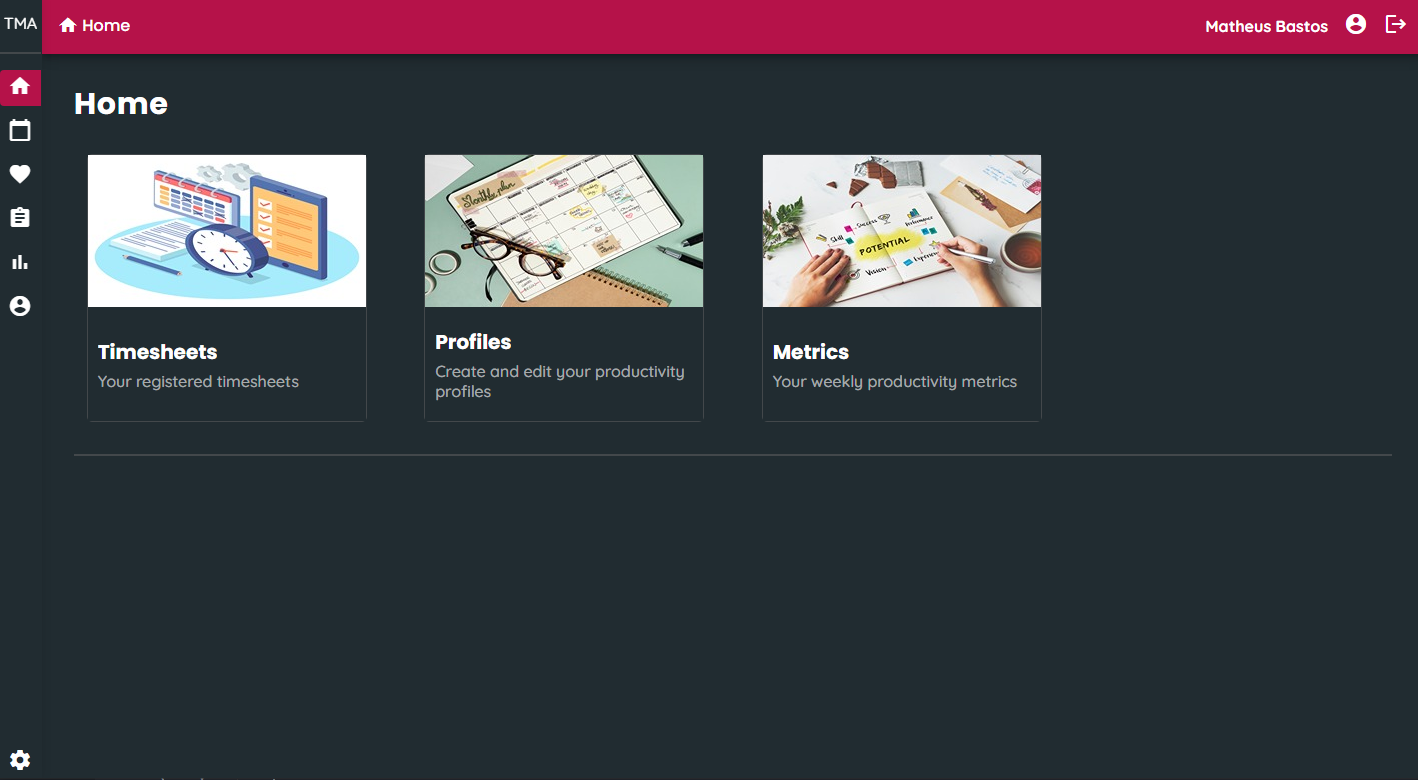
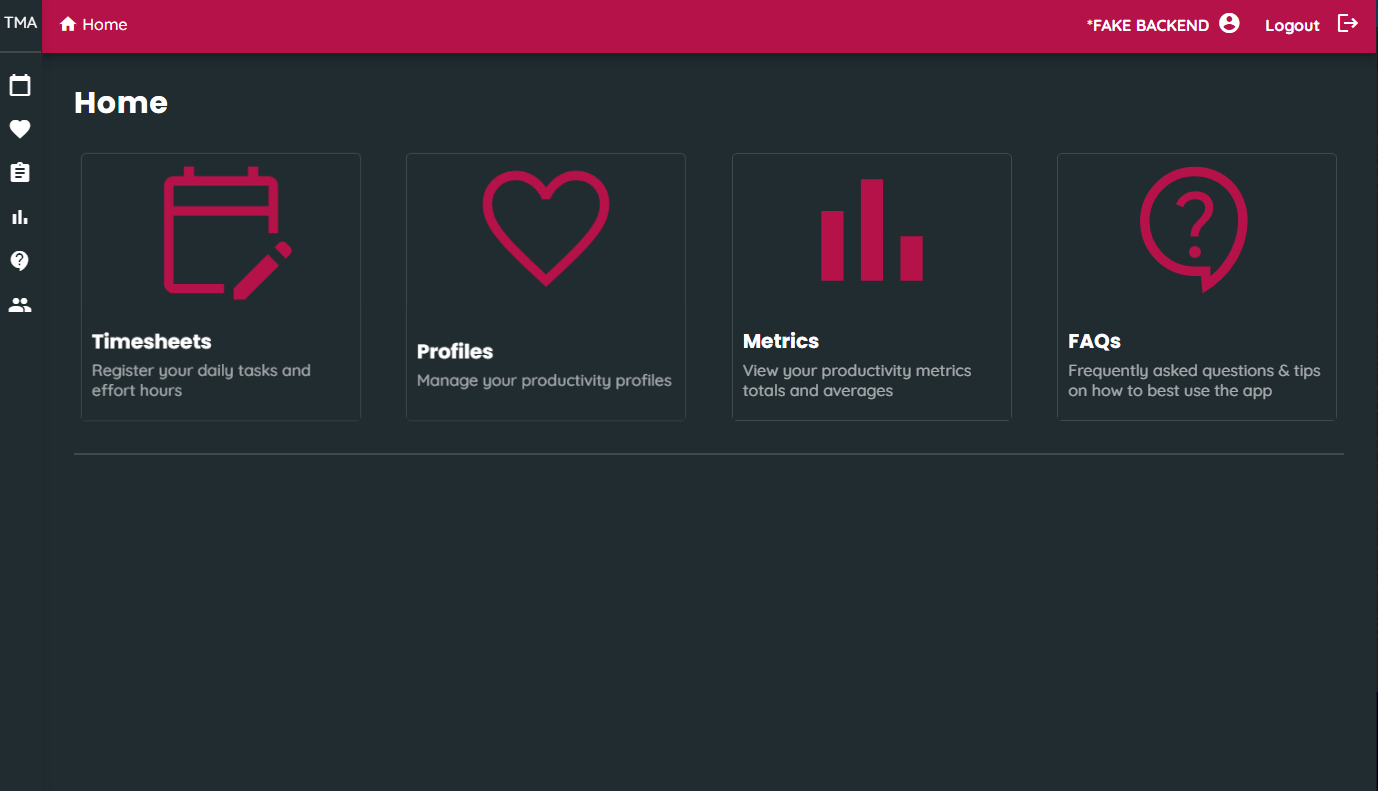
adding pt-BR README and updating images

diff --git a/README.pt-BR.md b/README.pt-BR.md
@@ -1,0 +1,45 @@
+# Task Manager App
+
+Aplicação web Fullstack para gerenciar tarefas e medir métricas de produtividade.
+
+O aplicativo possui uma versão de demonstração sem integração de back-end, hospedada no Vercel. Você pode acessá-la [aqui](https://task-manager-app-fake-backend.vercel.app/home/).
+
+## Repositórios
+
+- TMA API - .NET
+- TMA SPA - Angular
+
+## Principais Recursos
+
+- CRUD para tarefas, perfis e quadros de horários;
+- Sistema de autenticação sólido utilizando JWT;
+- Layout responsivo para todos os dispositivos e design seguindo as melhores práticas de UX;
+- Criação de perfis de produtividade com flexibilidade de agendamento, seja para intervalos específicos, dias úteis ou fins de semana (por exemplo, definir uma meta para estudar 5 horas por dia durante o mês de julho);
+- Adicionar tarefas predefinidas aos perfis (por exemplo, incluir uma atividade relacionada ao trabalho nos dias úteis e adicionar uma atividade para o seu projeto pessoal nos fins de semana);
+- Visualizar métricas em um calendário interativo, indicando o cumprimento de suas metas em dias específicos;
+- Visualizar métricas em intervalos de datas, com informações resumidas sobre seu progresso.
+
+## Telas principais
+
+![Home](./images/home.png 'Tela home')
+
+### Timesheets
+
+![Lista com calendário interativo](./images/timesheets.png 'Lista de timesheets')
+![Formulário de timesheet](./images/timesheet-form.png 'Formulário de timesheet')
+![Métricas](./images/metrics.png 'Métricas')
+
+### Perfis
+
+![Página de criação](./images/profiles.png 'Página de criação de perfis')
+![Página de tarefas pré-definidas](./images/tasks.png 'Página de tarefas pré-definidas')
+
+### FAQs
+
+![Tela de FAQs](./images/faqs.png 'Tela de FAQs')
+
+## Funcionalidades de UI/UX
+
+![Validação reativa de formulários](./images/reactive-validation.png 'Validação reativa de formulários')
+![Prevenção de alterações não salvas](./images/unsaved-changes-dialog.png 'Modal de prevenção de alterações não salvas')
+![Layouts responsivos](./images/profiles-mobile.png 'Tela de perfis em dispositivos móveis')

diff --git a/README.md b/README.md
@@ -15,7 +15,7 @@ The app has a demo version without back-end integration deployed on Vercel, you 
 
 - Solid authentication scheme using JWT;
 
-- Responsive layout and design that follows UX best practices;
+- Responsive layout for all devices and design that follows UX best practices;
 
 - Creation of productivity profiles with scheduling flexibility, whether for specific intervals, weekdays, or weekends (for example, set a goal to study 5 hours per day during the month of July);
 
@@ -39,6 +39,10 @@ The app has a demo version without back-end integration deployed on Vercel, you 
 
 ![Create page](./images/profiles.png 'Profile create page')
 ![Preset tasks page](./images/tasks.png 'Profile preset tasks page')
+
+### FAQs
+
+![FAQs page](./images/faqs.png 'FAQs page')
 
 ## UI/UX Features
 
